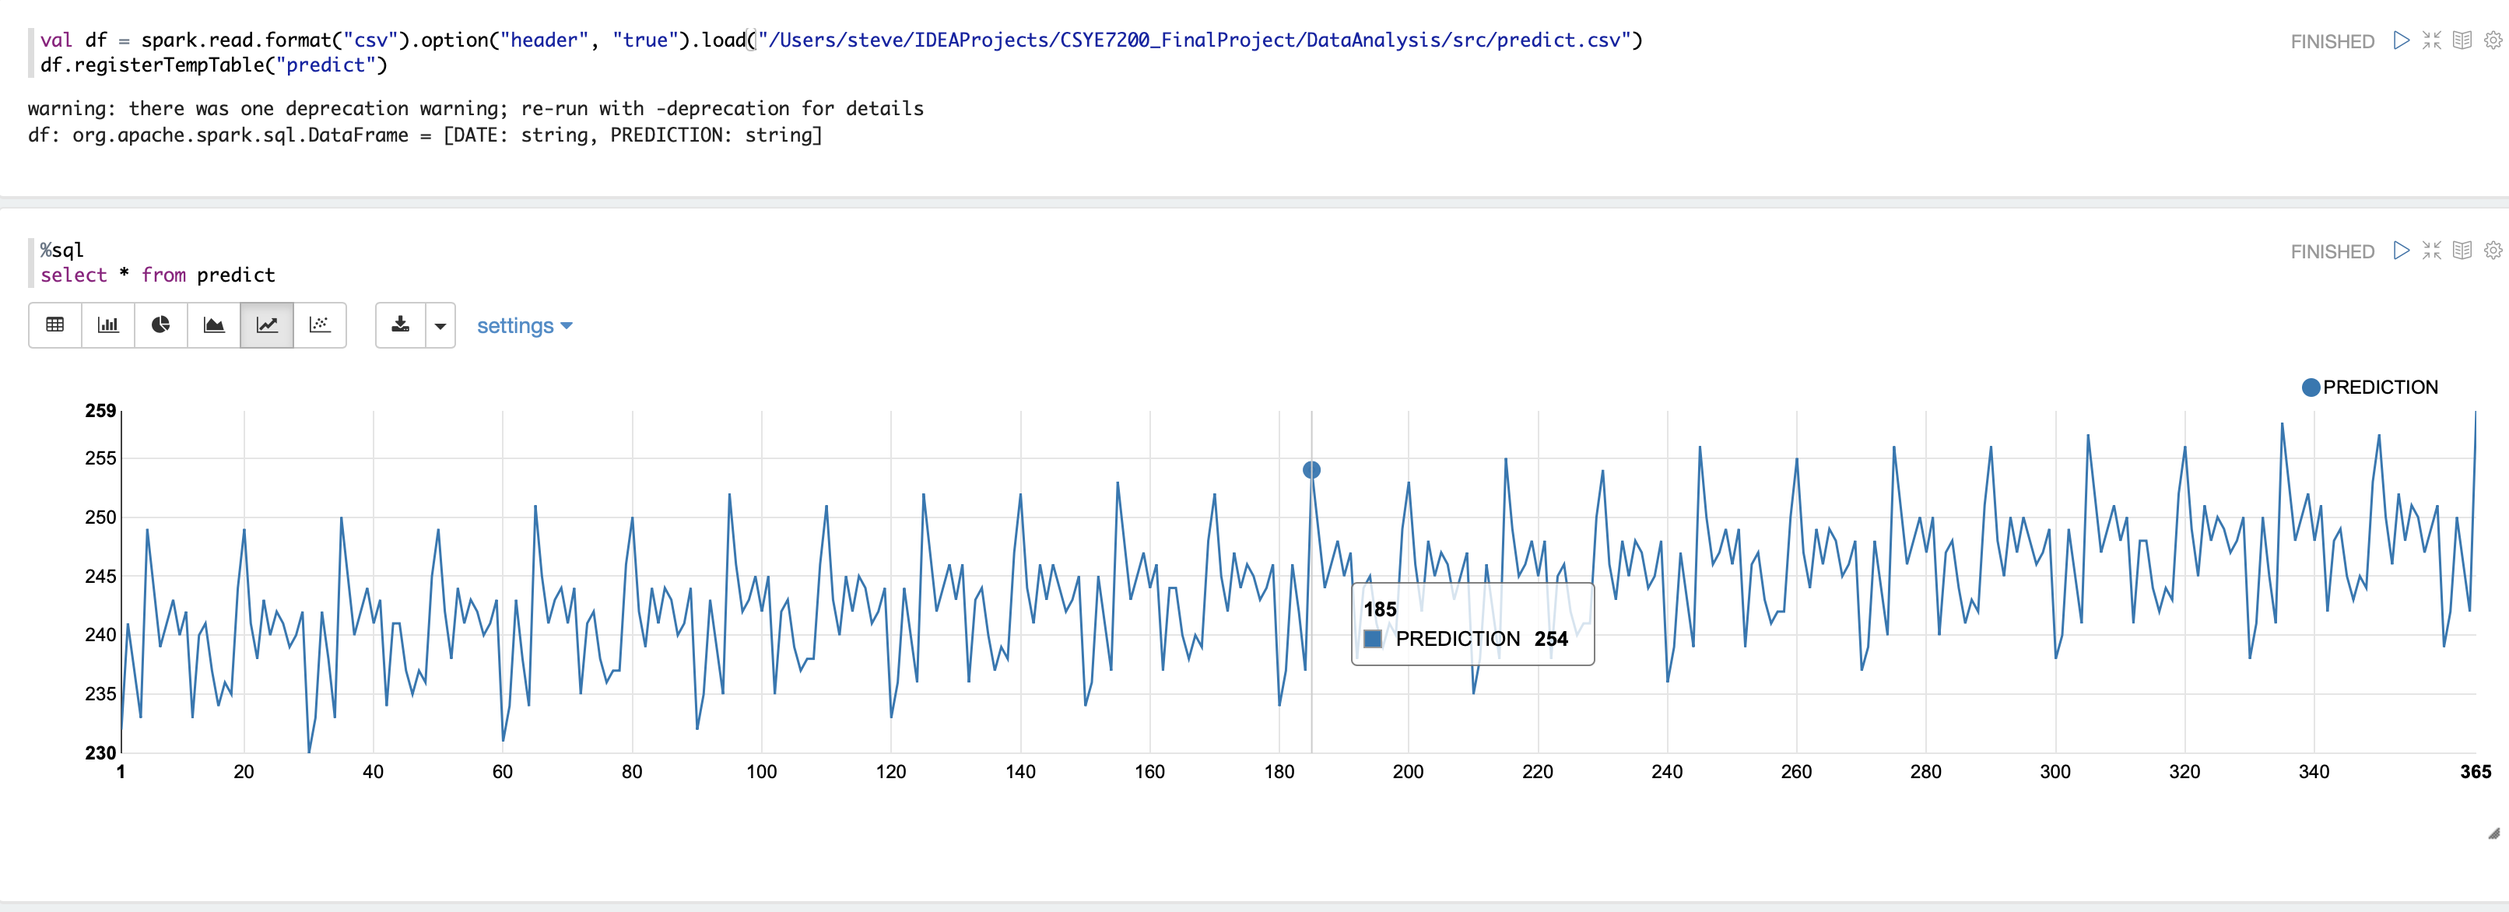
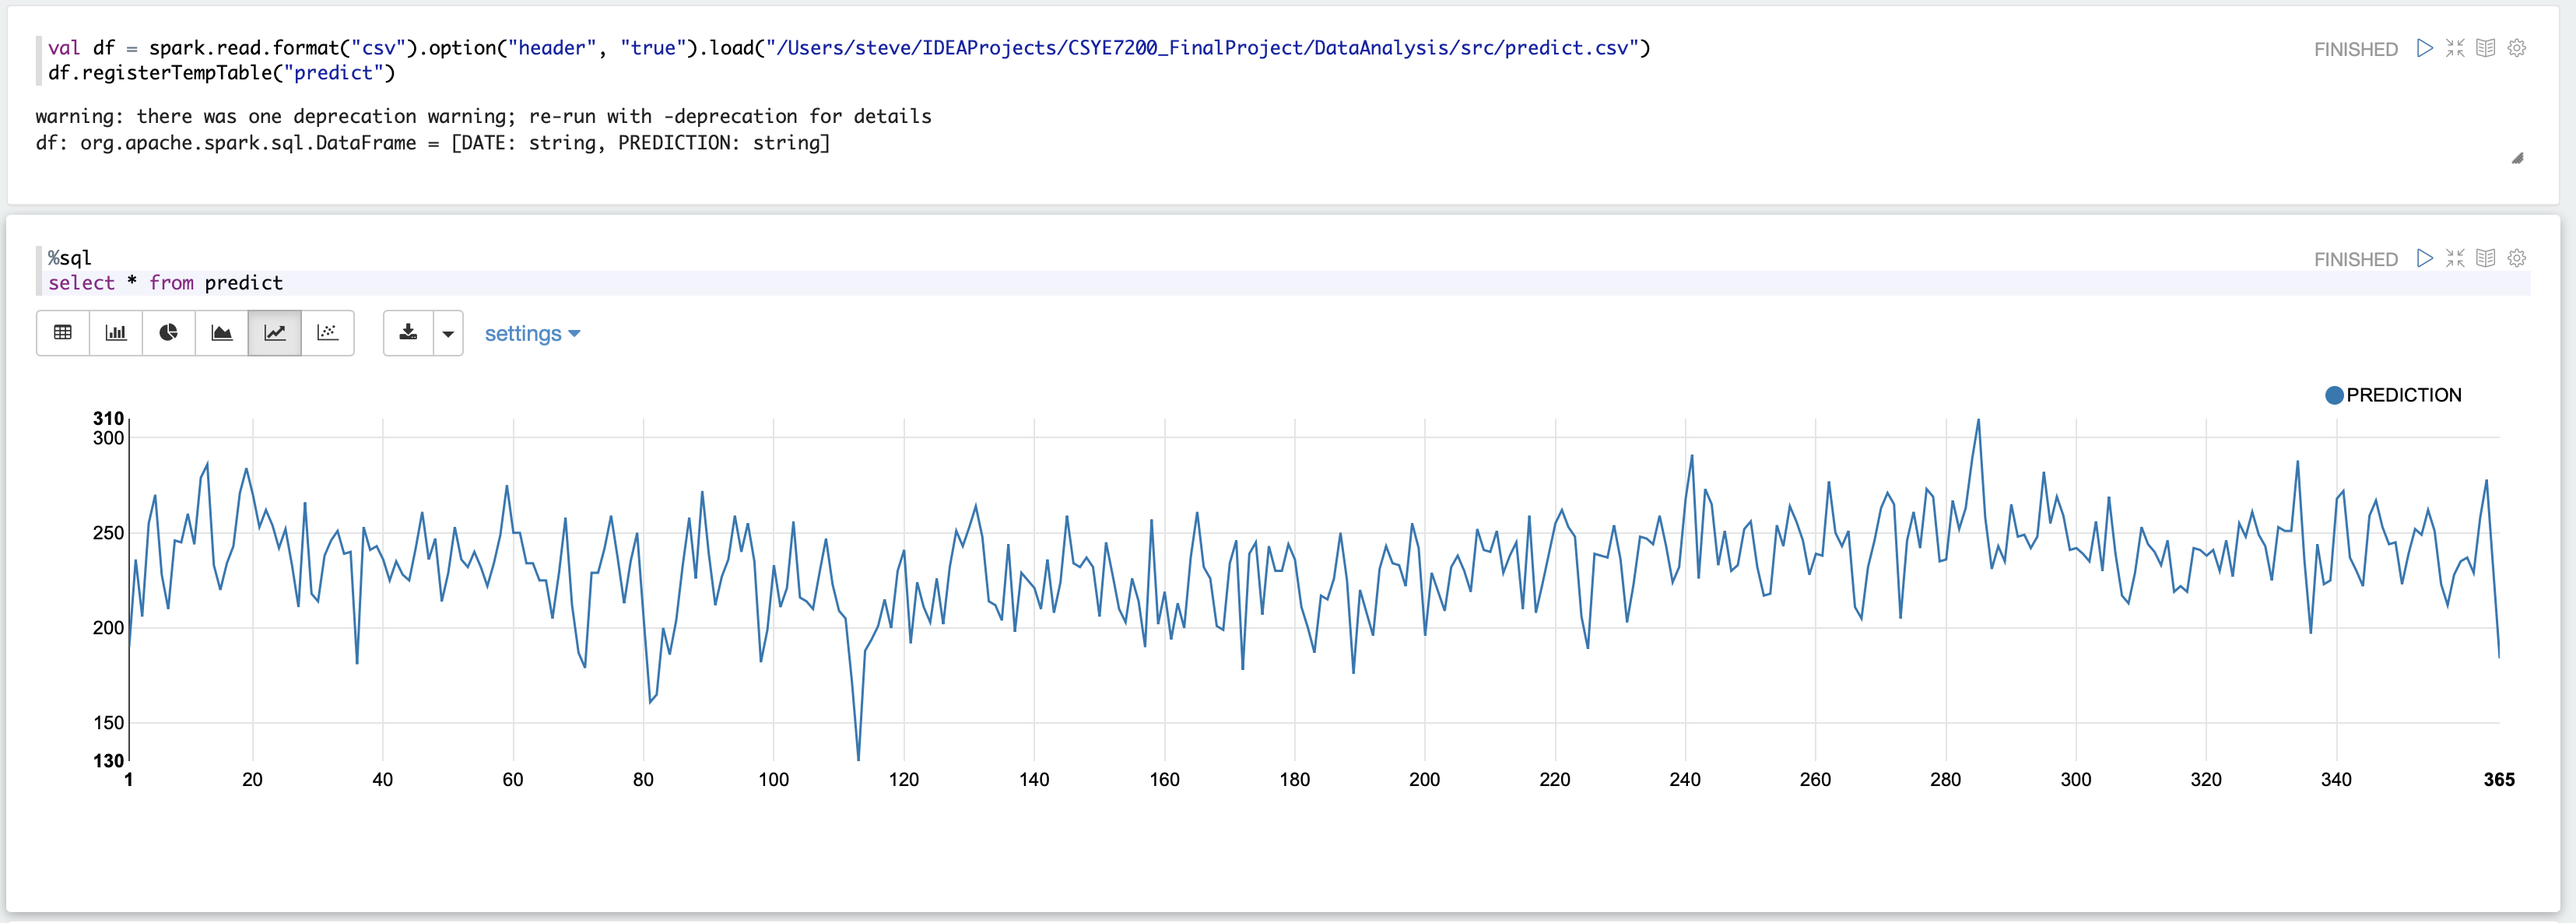
final version 1.0

diff --git a/DataVisualization/app/views/CrimeLocation.scala.html b/DataVisualization/app/views/CrimeLocation.scala.html
@@ -45,27 +45,26 @@
                                 accessToken: 'pk.eyJ1IjoidGlhbmp1IiwiYSI6ImNrM3Q4cmU4cjAwYm4za25rbGU2a3JicHcifQ.oyS4Lf8QqdXFb9MQ2VlWYQ'
                             }).addTo(mymap);
 
-
-                            let marker1 = L.marker([42.337170, -71.075436]).addTo(mymap)
-                            marker1.bindPopup("<b>Count:26549<br>SSE:5.084118930388495E-4</b>").openPopup();
-                            let marker2 = L.marker([42.358284, -71.060151]).addTo(mymap)
-                            marker2.bindPopup("<b>Count:31760<br>SSE:1.718464393275111E-4</b>").openPopup();
-                            let marker3 = L.marker([42.359682, -71.125615]).addTo(mymap)
-                            marker3.bindPopup("<b>Count:10796<br>SSE:8.296587785436172E-5</b>").openPopup();
-                            let marker4 =  L.marker([42.372825, -71.065957]).addTo(mymap)
-                            marker4.bindPopup("<b>Count:12608<br>SSE:1.901822079048397E-4</b>").openPopup();
-                            let marker5 = L.marker([42.368745, -71.040402]).addTo(mymap)
-                            marker5.bindPopup("<b>Count:50634<br>SSE:1.3857104336613212E-4</b>").openPopup();
-                            let marker6 = L.marker([42.327528, -71.057069]).addTo(mymap)
-                            marker6.bindPopup("<b>Count:29940<br>SSE:1.6335977766270378E-4</b>").openPopup();
-                            let marker7 = L.marker([42.313024, -71.077571]).addTo(mymap)
-                            marker7.bindPopup("<b>Count:55552<br>1.7865605682373397E-4</b>").openPopup();
-                            let marker8 = L.marker([42.314067, -71.102221]).addTo(mymap)
-                            marker8.bindPopup("<b>Count:18928<br>SSE:1.8640020339462306E-4</b>").openPopup();
-                            let marker9 = L.marker([42.303542, -71.065528]).addTo(mymap)
-                            marker9.bindPopup("<b>Count:33638<br>SSE:6.26468060322323E-5</b>").openPopup();
-                            let marker10 = L.marker([42.343135, -71.041523]).addTo(mymap)
-                            marker10.bindPopup("<b>Count:21201<br>SSE:1.4803906267945457E-4</b>").openPopup();
+                            let marker1 = L.marker([42.336283073016084,-71.08182926382847]).addTo(mymap)
+                            marker1.bindPopup("<b>Count:12666<br>SSE:1.8470564041120585E-4</b>").openPopup();
+                            let marker2 = L.marker([42.354134991567385,-71.06252423300693]).addTo(mymap)
+                            marker2.bindPopup("<b>Count:35653<br>SSE:1.3914352764179066E-4</b>").openPopup();
+                            let marker3 = L.marker([42.350811272042854,-71.14330170939827]).addTo(mymap)
+                            marker3.bindPopup("<b>Count:24016<br>SSE:1.598439472303681E-4</b>").openPopup();
+                            let marker4 =  L.marker([42.372448110145065,-71.06051780735562]).addTo(mymap)
+                            marker4.bindPopup("<b>Count:15151<br>SSE:1.4682579248344104E-4</b>").openPopup();
+                            let marker5 = L.marker([42.377826303843925,-71.03010087820692]).addTo(mymap)
+                            marker5.bindPopup("<b>Count:9386<br>SSE:1.9328531837113465E-4</b>").openPopup();
+                            let marker6 = L.marker([42.302310507562986,-71.06849035907241]).addTo(mymap)
+                            marker6.bindPopup("<b>Count:23593<br>SSE:6.514311505547168E-5</b>").openPopup();
+                            let marker7 = L.marker([42.31899644853801,-71.1000788500101]).addTo(mymap)
+                            marker7.bindPopup("<b>Count:7645<br>SSE:8.394163780077828E-5</b>").openPopup();
+                            let marker8 = L.marker([42.27049978289415,-71.13197285734356]).addTo(mymap)
+                            marker8.bindPopup("<b>Count:43427<br>SSE:1.7430265873729994E-4</b>").openPopup();
+                            let marker9 = L.marker([42.28145999439492,-71.08719783731262]).addTo(mymap)
+                            marker9.bindPopup("<b>Count:23067<br>SSE:1.6706686022424958E-4</b>").openPopup();
+                            let marker10 = L.marker([42.330053801204464,-71.05168172357615]).addTo(mymap)
+                            marker10.bindPopup("<b>Count:19813<br>SSE:5.003882107930269E-4</b>").openPopup();
 
 
                     </script>

diff --git a/DataVisualization/app/views/TextRankResult.scala.html b/DataVisualization/app/views/TextRankResult.scala.html
@@ -63,16 +63,6 @@
                                 + "</b><br>Occurred Date:" + "@result(2)"
                                 + "<br>Street:" + "@result(3)").openPopup();
                         }
-
-                        // console.log(mockData.length, mockData[0])
-                        //     let marker = new Array(mockData.length)
-                        // for(let i = 0; i < mockData.length; i++){
-                        //     marker[i] = L.marker([mockData[i].Lat, mockData[i].Long]).addTo(mymap)
-                        //     marker[i].bindPopup("<b>Offense Type:" + mockData[i].OFFENSE_CODE_GROUP
-                        //             + "</b><br>Occurred Date:" + mockData[i].OCCURRED_ON_DATE
-                        //             + "<br>Street:" + mockData[i].STREET).openPopup();
-                        // }
-
                 </script>
             </body>
         </html>

diff --git a/DataVisualization/app/views/CrimePrediction.scala.html b/DataVisualization/app/views/CrimePrediction.scala.html
@@ -8,9 +8,9 @@
                     <p class = "chart"><img src="assets/images/CrimeByDate.png" alt="Request and response"/></p>
                     <p class = "introduction">Use Holt Winter model to predict crime number in the next 365 days</p>
                     <p class = "chart"><img src="assets/images/CrimePrediction.png" alt="Request and response"/></p>
-                    <p>alpha:0.059867973836762824</p>
-                    <p>beta:0.0</p>
-                    <p>gamma:0.1202492576414494</p>
+                    <p>alpha: 0.0</p>
+                    <p>beta:0.014</p>
+                    <p>gamma:0.538</p>
                 </article> <aside>
                 @commonSidebar()
             </aside>
